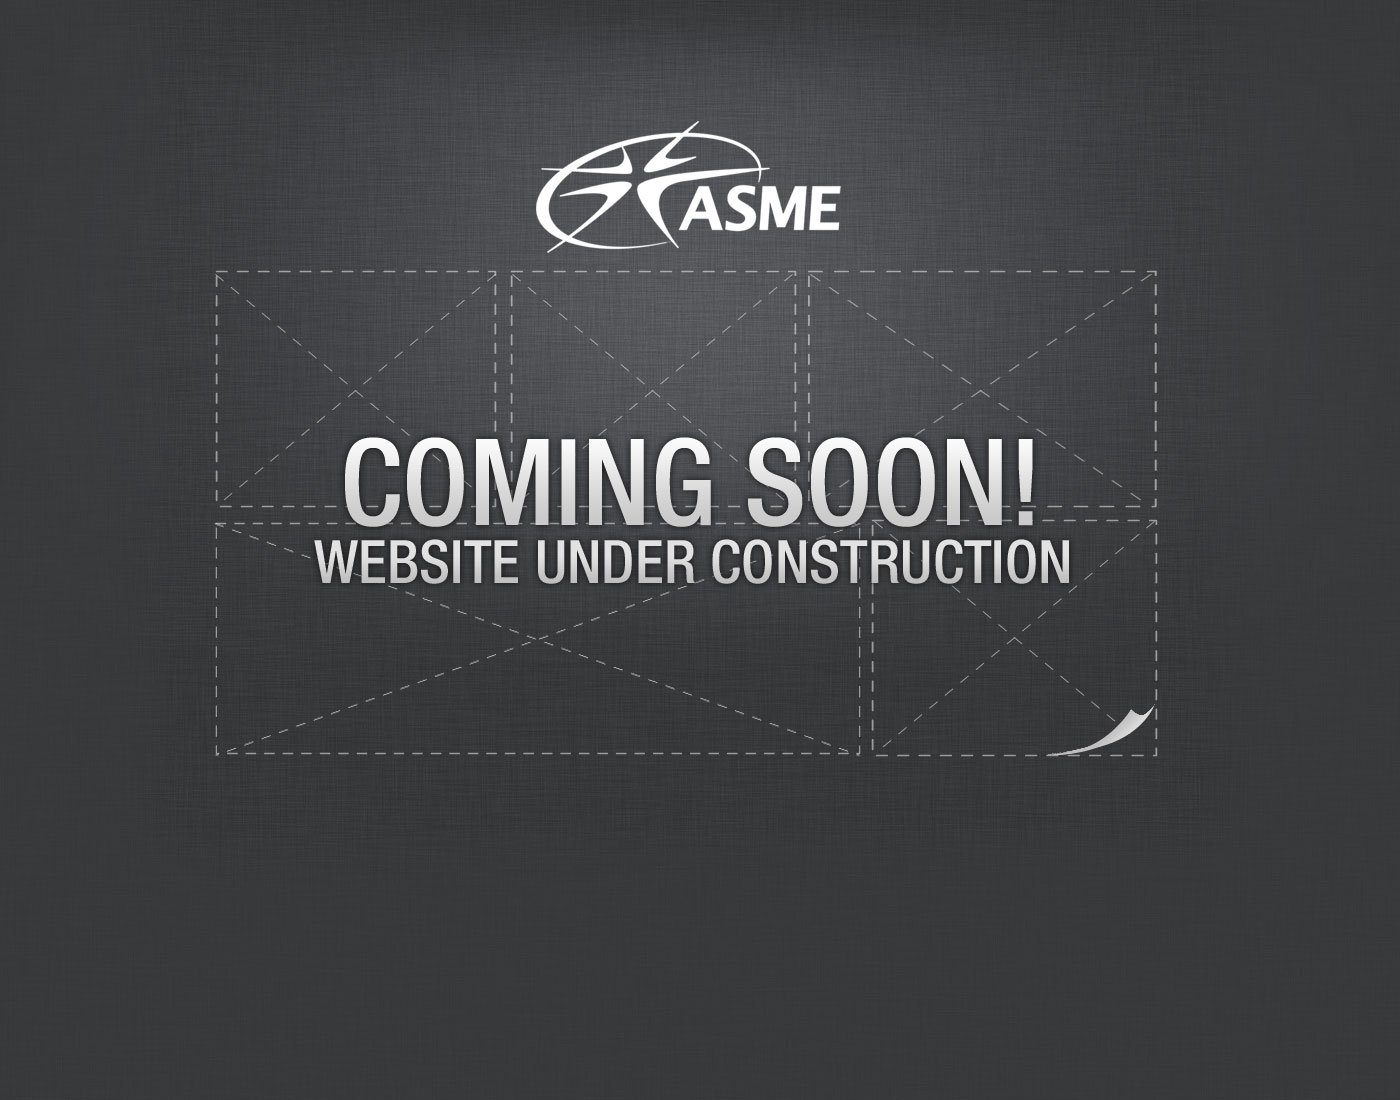
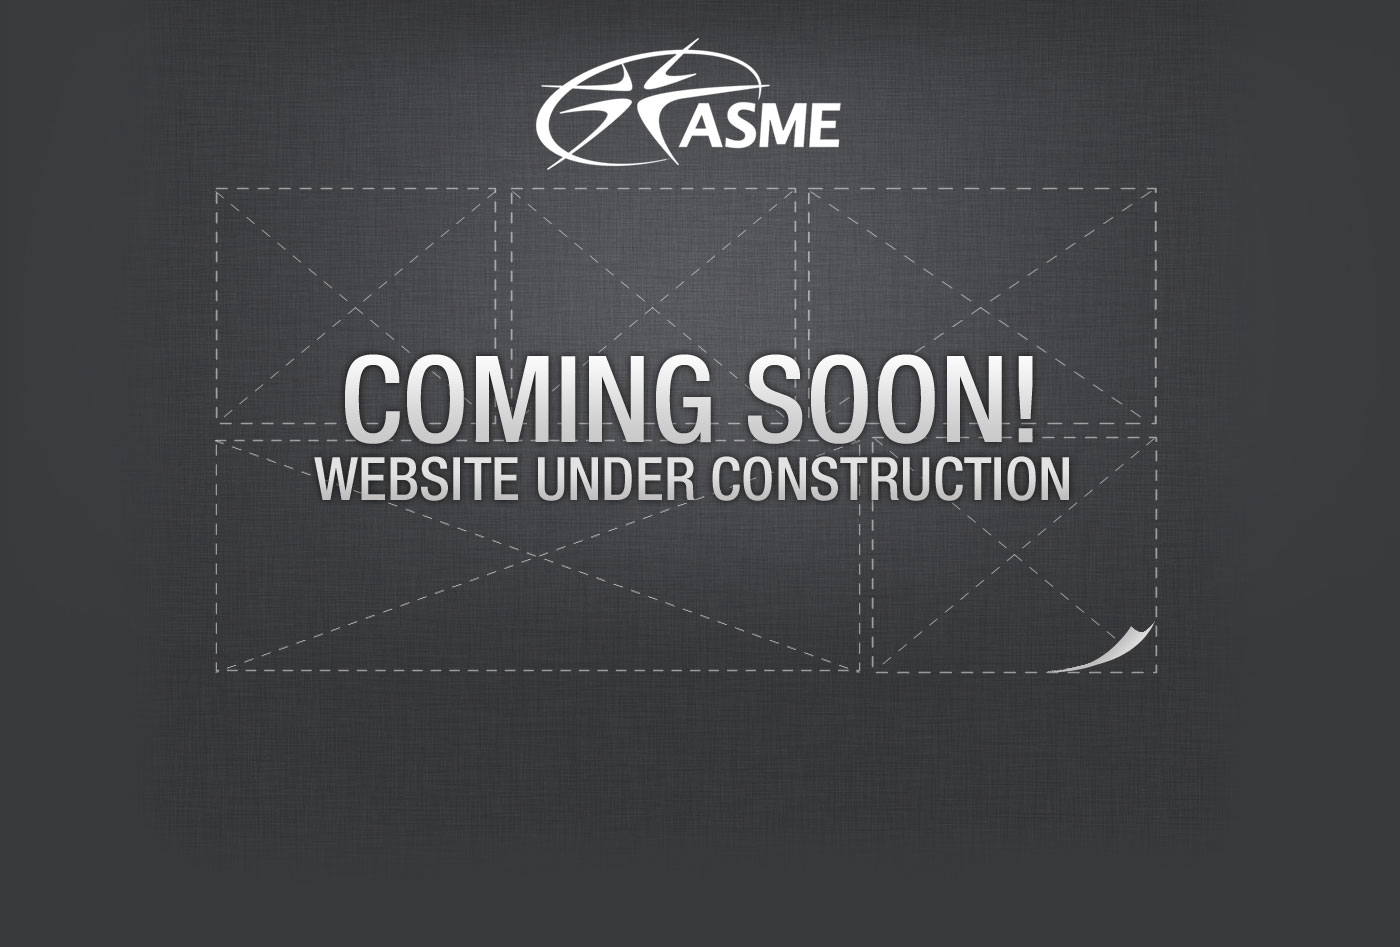
Coming Soon display chang
And add link for "Member Portal Login" button

diff --git a/index.html b/index.html
@@ -19,7 +19,8 @@
 </head>
 
 <body>
-    <div id="login_box"></div><!-- /#login_box -->
+    <a id="login_box" href="http://membersportal.asme.org.sg/index.php/members/login
+"></a><!-- /#login_box -->
     <div id="wrapper">
         <div id="header">
             <div id="header_right">

diff --git a/inc/css/stylesheet.css b/inc/css/stylesheet.css
@@ -320,5 +320,5 @@ body#coming_soon{
 	color: #fff;
 	font-size:11px;
 	margin: 0 auto;
-	padding:792px 0 120px;
+	padding:700px 0 20px;
 }
